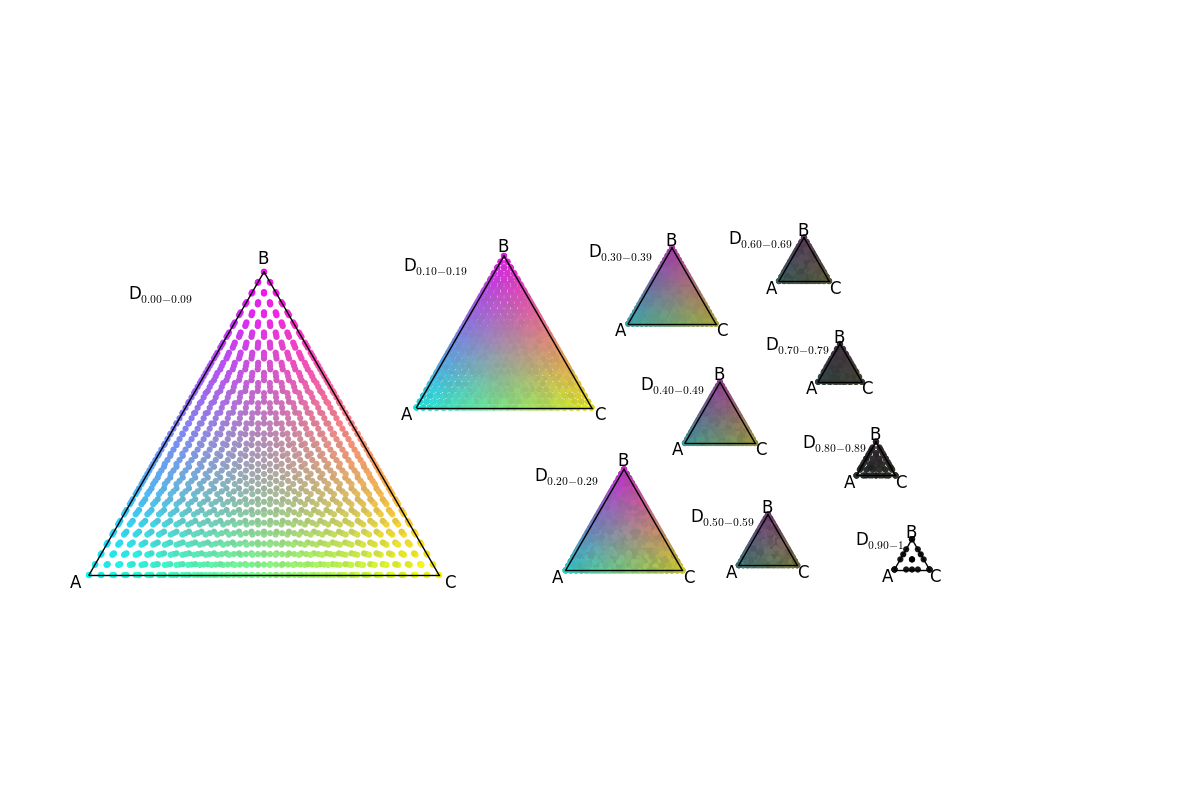
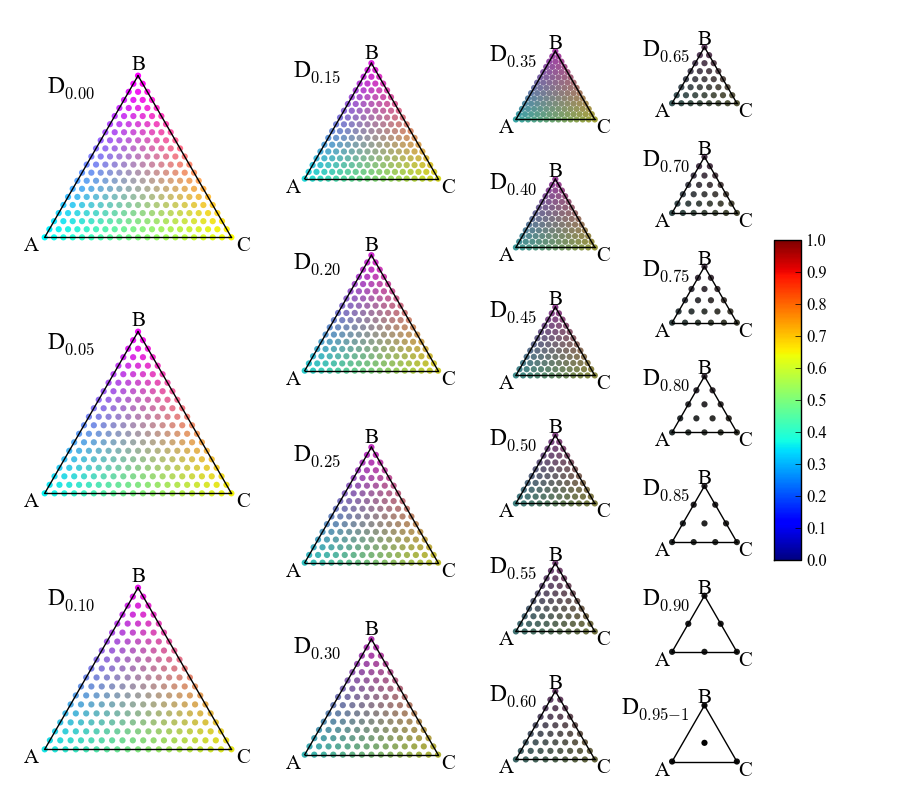
added tern comp slice plots for 5 and 20 slices

diff --git a/quaternary_FOM_stackedtern10.py b/quaternary_FOM_stackedtern10.py
@@ -1,0 +1,87 @@
+import matplotlib.cm as cm
+import numpy
+import pylab
+import h5py, operator, copy, os
+
+
+#pylab.rc('font',**{'family':'serif''serif':['Times New Roman']})
+#pylab.rcParams['font.family']='serif'
+#pylab.rcParams['font.serif']='Times New Roman'
+pylab.rc('font', family='serif', serif='Times New Roman')
+#os.chdir('C:/Users/Gregoire/Documents/PythonCode/ternaryplot')
+from myternaryutility import TernaryPlot
+from myquaternaryutility import QuaternaryPlot
+
+
+def make10ternaxes(ellabels=['A', 'B', 'C', 'D'], fig=None, fontsize=17):
+    if fig is None:
+        fig=pylab.figure(figsize=(12, 8))
+        
+    ax_xc=[]
+    ax_yc=[]
+    xcdel=[.18, .19, .065, .1, .04, .05, .055, .03, .02, .02]
+    ax_yc=[.49, .6, .38, .64, .48, .34, .66, .53, .42, .32]
+    for i in range(10):
+        if i==0:
+            ax_xc+=[xcdel[i]]
+        else:
+            ax_xc+=[ax_xc[-1]+xcdel[i]]
+        #ax_yc+=[.5+((i%2)*2.-1.)*((i>0)*.1+.072*i/10)]
+
+    shape1=numpy.array([.35, 1.])
+    scales=[.82, 0.51, 0.39, 0.3, 0.22, 0.2, 0.17, 0.14, 0.11, 0.06]
+    axl=[]
+    for sc, xc, yc in zip(scales, ax_xc, ax_yc):
+        w, l=shape1*sc
+        axl+=[fig.add_axes([xc-w/2, yc-l/2, w, l])]
+
+
+    stpl=[]
+    xpos=[.27]*10
+    xpos[0:3]=[.38, .36, .33]
+    xpos[-1]=.18
+    for count, (ax, xp) in enumerate(zip(axl, xpos)):
+        stp=TernaryPlot(ax, ellabels=ellabels[:3], offset=.03)
+        if not fontsize is None:
+            stp.label(fontsize=fontsize)#,fontdict={'fontname':'Times New Roman'})
+        stpl+=[stp]
+        
+        if not fontsize is None:
+            if count<9:
+                stp.ax.text(xp, .8, '%s$_{%.2f-%.2f}$' %(ellabels[3], (count*.1), ((count+1)*.1)-.01), ha='right', va='center', fontsize=fontsize)
+            else:
+                stp.ax.text(xp, .8, '%s$_{%.2f-%d}$' %(ellabels[3], (count*.1), 1), ha='right', va='center', fontsize=fontsize)
+    return axl, stpl
+
+
+
+def scatter_10axes(comps, fom, stpl, s=18, cb=False, cbrect=(.85, .3, .04, .4), cblabel='', **kwargs):# for colorbar must pass kwargs norm and cmap and optionally cblabel
+    abc=comps[:, :3]
+    abc[abc.sum(axis=1)==0.]=numpy.array([1., 1., 1.])/3.
+    abc=numpy.array([c/c.sum() for c in abc])
+    d=comps[:, 3]
+    d30=numpy.round(d*30.)
+    dlims=numpy.array([0., 1., 2., 3.])
+    marks=[('o', 1., 1.), ('D', .9, .7),('s', .8, .5)]
+    sl=s*numpy.array([2.3, 1., .55, .4, .4, .45, .4, .5, .8, 1., 1.5])
+    scplots=[]
+    for i, (stp, sv) in enumerate(zip(stpl, sl)):
+        dl=dlims+(i*3.)
+        if i==9:
+            dl[-1]+=.01
+        for a, b, (m, sf, al) in zip(dl, dl[1:], marks):
+            inds=numpy.where((d30>=a) & (d30<b))[0]
+            #print a, b, len(inds)
+            if len(inds)>0:
+                scplots+=[stp.scatter(abc[inds], c=fom[inds], marker=m, s=sv*sf, alpha=al, **kwargs)]
+    if cb:
+        cbax=stp.ax.figure.add_axes(cbrect)
+        if 'extend' in kwargs.keys():
+            sm=cm.ScalarMappable(norm=kwargs['norm'], cmap=kwargs['cmap'], extend=kwargs['extend'])
+        else:
+            sm=cm.ScalarMappable(norm=kwargs['norm'], cmap=kwargs['cmap'])
+        sm.set_array(fom)
+        cb=stp.ax.figure.colorbar(sm, cax=cbax)
+        cb.set_label(cblabel, fontsize=18)
+
+

diff --git a/quaternary_FOM_stackedtern5.py b/quaternary_FOM_stackedtern5.py
@@ -1,0 +1,86 @@
+import matplotlib.cm as cm
+import numpy
+import pylab
+import h5py, operator, copy, os
+
+
+#pylab.rc('font',**{'family':'serif''serif':['Times New Roman']})
+#pylab.rcParams['font.family']='serif'
+#pylab.rcParams['font.serif']='Times New Roman'
+pylab.rc('font', family='serif', serif='Times New Roman')
+#os.chdir('C:/Users/Gregoire/Documents/PythonCode/ternaryplot')
+from myternaryutility import TernaryPlot
+from myquaternaryutility import QuaternaryPlot
+
+
+def make5ternaxes(ellabels=['A', 'B', 'C', 'D'], fig=None):
+    if fig is None:
+        fig=pylab.figure(figsize=(8, 6))
+        
+    ax_xc=[]
+    ax_yc=[]
+    xcdel=[.22, .23, .13, .09, .06]
+    ax_yc=[.5, .58, .36, .58, .42]
+    for i in range(5):
+        if i==0:
+            ax_xc+=[xcdel[i]]
+        else:
+            ax_xc+=[ax_xc[-1]+xcdel[i]]
+        #ax_yc+=[.5+((i%2)*2.-1.)*((i>0)*.1+.072*i/10)]
+
+    shape1=numpy.array([.35, 1.])
+
+    axl=[]
+    for i, xc, yc in zip(range(1, 11), ax_xc, ax_yc):
+        w, l=shape1/i
+        axl+=[fig.add_axes([xc-w/2, yc-l/2, w, l])]
+
+
+    stpl=[]
+    xpos=[.27]*10
+    xpos[0:3]=[.35, .29, .28]
+    xpos[-1]=.26
+    for count, (ax, xp) in enumerate(zip(axl, xpos)):
+        stp=TernaryPlot(ax, ellabels=ellabels[:3], offset=.03)
+        stp.label(fontsize=17)#,fontdict={'fontname':'Times New Roman'})
+        stpl+=[stp]
+        
+        
+        if count<4:
+            stp.ax.text(xp, .8, '%s$_{%.2f-%.2f}$' %(ellabels[3], (count*.2), ((count+1)*.2)-.01), ha='right', va='center', fontsize=17)
+        else:
+            stp.ax.text(xp, .8, '%s$_{%.2f-%d}$' %(ellabels[3], (count*.2), 1), ha='right', va='center', fontsize=17)
+    return axl, stpl
+
+
+
+def scatter_5axes(comps, fom, stpl, s=18, cb=False, cbrect=(.85, .3, .04, .4), cblabel='', **kwargs):# for colorbar must pass kwargs norm and cmap and optionally cblabel
+    abc=comps[:, :3]
+    abc[abc.sum(axis=1)==0.]=numpy.array([1., 1., 1.])/3.
+    abc=numpy.array([c/c.sum() for c in abc])
+    d=comps[:, 3]
+    d30=numpy.round(d*30.)
+    dlims=numpy.array([0., 1., 2., 3., 4., 6.])
+    marks=[('o', 1., 1.), ('o', 1., .8), ('D', .9, .7), ('D', .9, .6),('s', .8, .5),('s', .8, .4)]
+    sl=s*numpy.array([2.3, 1.5, .8, .7, .6])
+    scplots=[]
+    for i, (stp, sv) in enumerate(zip(stpl, sl)):
+        dl=dlims+(i*6.)
+        if i==4:
+            dl[-1]+=1.
+        for a, b, (m, sf, al) in zip(dl, dl[1:], marks):
+            inds=numpy.where((d30>=a) & (d30<b))[0]
+            #print a, b, len(inds)
+            if len(inds)>0:
+                scplots+=[stp.scatter(abc[inds], c=fom[inds], marker=m, s=sv*sf, alpha=al, **kwargs)]
+    if cb:
+        cbax=stp.ax.figure.add_axes(cbrect)
+        if 'extend' in kwargs.keys():
+            sm=cm.ScalarMappable(norm=kwargs['norm'], cmap=kwargs['cmap'], extend=kwargs['extend'])
+        else:
+            sm=cm.ScalarMappable(norm=kwargs['norm'], cmap=kwargs['cmap'])
+        sm.set_array(fom)
+        cb=stp.ax.figure.colorbar(sm, cax=cbax)
+        cb.set_label(cblabel, fontsize=18)
+
+

diff --git a/quaternary_FOM_stackedtern20.py b/quaternary_FOM_stackedtern20.py
@@ -1,0 +1,86 @@
+import matplotlib.cm as cm
+import numpy
+import pylab
+import h5py, operator, copy, os
+
+
+#pylab.rc('font',**{'family':'serif''serif':['Times New Roman']})
+#pylab.rcParams['font.family']='serif'
+#pylab.rcParams['font.serif']='Times New Roman'
+pylab.rc('font', family='serif', serif='Times New Roman')
+#os.chdir('C:/Users/Gregoire/Documents/PythonCode/ternaryplot')
+from myternaryutility import TernaryPlot
+from myquaternaryutility import QuaternaryPlot
+
+
+def make20ternaxes(ellabels=['A', 'B', 'C', 'D'], fig=None):
+    if fig is None:
+        fig=pylab.figure(figsize=(9, 8))
+
+    axl=[]
+
+    delw=.02
+    delh=.04
+    yscalefct=[1.]*4#[.7, .7, .7, .7, .7, .7]
+    xscalefct=[1., .9, .67, .67, .67]
+    npercol=numpy.array([3,4,6,7])
+    colw=(1./npercol)
+    colw[0]*=.85
+    colw[1]*=.9
+    colw=(colw/colw.sum())*(.85-len(npercol)*delw)
+    #colw/=colw.sum()
+
+    plotcount=0
+    cumwidth=0
+    for nc, cw, xsf, ysf in zip(npercol, colw, xscalefct, yscalefct):
+        w=xsf*cw
+        h=ysf*((1.-delh*(nc+1))/nc)
+        cumwidth+=cw+delw
+        for ic in range(nc):
+            axl+=[fig.add_axes([cumwidth-cw/2.-w/2., 1.-(delh+ic*(h+delh))-h, w, h])]
+
+
+    stpl=[]
+    xpos=[.27]*20
+    #    xpos[0:3]=[.35, .29, .28]
+    #    xpos[-1]=.26
+    for count, (ax, xp) in enumerate(zip(axl, xpos)):
+        stp=TernaryPlot(ax, ellabels=ellabels[:3], offset=.03)
+        stp.label(fontsize=15)#,fontdict={'fontname':'Times New Roman'})
+        stpl+=[stp]
+        
+        
+        if count<19:
+            stp.ax.text(xp, .8, '%s$_{%.2f}$' %(ellabels[3], (count*.05)), ha='right', va='center', fontsize=17)
+        else:
+            stp.ax.text(xp, .8, '%s$_{%.2f-%d}$' %(ellabels[3], (count*.05), 1), ha='right', va='center', fontsize=17)
+    return axl, stpl
+
+
+
+def scatter_20axes(comps, fom, stpl, s=18, cb=False, cbrect=(.86, .3, .03, .4), cblabel='', **kwargs):
+    abc=comps[:, :3]
+    abc[abc.sum(axis=1)==0.]=numpy.array([1., 1., 1.])/3.
+    abc=numpy.array([c/c.sum() for c in abc])
+    d=comps[:, 3]
+    d20=numpy.round(d*20.)
+    d20[d20==20.]=19.
+    dlims=numpy.array([0., 1., 2., 3.])
+    marks=[('o', 1., 1.), ('D', .9, .7),('s', .8, .5)]
+    sl=s*numpy.array([2.3, 1., .58, .38, .38, .42, .38, .46, .8, 1., 1.5]+[1.5]*10)
+    for i, (stp, sv) in enumerate(zip(stpl, sl)):
+        inds=numpy.where((d20==i))[0]
+        #print a, b, len(inds)
+        if len(inds)>0:
+            stp.scatter(abc[inds], c=fom[inds], marker='o', s=20, **kwargs)
+    if cb:
+        cbax=stp.ax.figure.add_axes(cbrect)
+        if 'extend' in kwargs.keys():
+            sm=cm.ScalarMappable(norm=kwargs['norm'], cmap=kwargs['cmap'], extend=kwargs['extend'])
+        else:
+            sm=cm.ScalarMappable(norm=kwargs['norm'], cmap=kwargs['cmap'])
+        sm.set_array(fom)
+        cb=stp.ax.figure.colorbar(sm, cax=cbax)
+        cb.set_label(cblabel, fontsize=18)
+#make30ternaxes()
+#pylab.show()

diff --git a/myquaternaryutility.py b/myquaternaryutility.py
@@ -378,18 +378,18 @@ class QuaternaryPlot:
         else:
             return inds
             
-    def plotfomalonglineparameter(self, ax, lineparameter, fom, compend1=None, compend2=None, lineparticks=numpy.linspace(0, 1, 4), ticklabelkwargdict={}, **kwargs):
+    def plotfomalonglineparameter(self, ax, lineparameter, fom, compend1=None, compend2=None, lineparticks=numpy.linspace(0, 1, 4), labelfmtstr='%.3f', ticklabelkwargdict={}, **kwargs):
         sortinds=numpy.argsort(lineparameter)
         ax.plot(lineparameter[sortinds], fom[sortinds], **kwargs)
         if not lineparticks is None:
             tl=[]
             for i in lineparticks:
                 c=compend1+(compend2-compend1)*i
-                tl+=[self.singlelabeltext(c)]
+                tl+=[self.singlelabeltext(c, fmtstr=labelfmtstr)]
             ax.xaxis.set_ticks(lineparticks)
             ax.xaxis.set_ticklabels(tl, **ticklabelkwargdict)
     
-    def plotfominselectedplane(self, ax, xyparr, fom, xyp_verts=None, vertcomps_labels=None, vertlw=1., **kwargs):
+    def plotfominselectedplane(self, ax, xyparr, fom, xyp_verts=None, vertcomps_labels=None, vertlw=1., labelfmtstr='%.3f', **kwargs):
         ax.scatter(xyparr[:, 0], xyparr[:, 1], c=fom, **kwargs)
         xyp_verts=list(xyp_verts)
         if not vertlw is None:
@@ -399,7 +399,7 @@ class QuaternaryPlot:
             for xyp, c, ha, va in zip(xyp_verts, vertcomps_labels, ['right', 'left', 'center'], ['top', 'center', 'bottom']):
                 if c is None:
                     continue
-                ax.text(xyp[0], xyp[1], self.singlelabeltext(c), ha=ha, va=va)
+                ax.text(xyp[0], xyp[1], self.singlelabeltext(c, fmtstr=labelfmtstr), ha=ha, va=va, fontsize=16)
         ax.set_axis_off()
         ax.set_aspect('equal')
 

diff --git a/quaternary_FOM_stackedtern_demo10.py b/quaternary_FOM_stackedtern_demo10.py
@@ -2,13 +2,16 @@ import matplotlib.cm as cm
 import numpy
 import pylab
 import h5py, operator, copy, os
-
+import matplotlib.colors as colors
+import matplotlib.cm as cm
 from myternaryutility import TernaryPlot
 from myquaternaryutility import QuaternaryPlot
 
-from quaternary_FOM_stackedtern2 import *
+from quaternary_FOM_stackedtern10 import *
 
-axl, stpl=make10ternaxes()
+ellabels=['Aa', 'Bb', 'Cc', 'Dd']
+
+axl, stpl=make10ternaxes(ellabels=ellabels)
 
 gridi=30
 comps_10full=[(a*1./gridi, b*1./gridi, c*1./gridi, (gridi-a-b-c)*1./gridi) for a in numpy.arange(0,1+gridi) for b in numpy.arange(0,1+gridi-a) for c in numpy.arange(0,1+gridi-a-b)]
@@ -18,10 +21,12 @@ print len(comps_10full)
 comps_10full=numpy.array(comps_10full)
 
 pylab.figure()
-stpquat=QuaternaryPlot(111)
+stpquat=QuaternaryPlot(111, ellabels=ellabels)
 cols=stpquat.rgb_comp(comps_10full)
 stpquat.scatter(comps_10full, c=cols, s=20, edgecolors='none')
-scatter_10axes(comps_10full, cols, stpl, s=20, edgecolors='none', cmap=cm.jet, norm=None, cb=True)
+norm=colors.Normalize(vmin=0, vmax=1)
+cmap=cm.jet
+scatter_10axes(comps_10full, cols, stpl, s=20, edgecolors='none', cb=True, norm=norm, cmap=cmap)
 stpquat.label()
 
 pylab.savefig('stackedtern_quat.png')
@@ -29,3 +34,4 @@ pylab.figure(axl[0].figure.number)
 pylab.savefig('stackedtern.png')
 
 pylab.show()
+

diff --git a/quaternary_FOM_stackedtern_demo20.py b/quaternary_FOM_stackedtern_demo20.py
@@ -6,11 +6,12 @@ import h5py, operator, copy, os
 from myternaryutility import TernaryPlot
 from myquaternaryutility import QuaternaryPlot
 
-from quaternary_FOM_stackedtern2 import *
 
-axl, stpl=make10ternaxes()
+from quaternary_FOM_stackedtern20 import *
 
-gridi=30
+axl, stpl=make20ternaxes()
+
+gridi=20
 comps_10full=[(a*1./gridi, b*1./gridi, c*1./gridi, (gridi-a-b-c)*1./gridi) for a in numpy.arange(0,1+gridi) for b in numpy.arange(0,1+gridi-a) for c in numpy.arange(0,1+gridi-a-b)]
 comps_10full=list(set(comps_10full))
 print len(comps_10full)
@@ -21,7 +22,7 @@ pylab.figure()
 stpquat=QuaternaryPlot(111)
 cols=stpquat.rgb_comp(comps_10full)
 stpquat.scatter(comps_10full, c=cols, s=20, edgecolors='none')
-scatter_10axes(comps_10full, cols, stpl, s=20, edgecolors='none', cmap=cm.jet, norm=None, cb=True)
+scatter_20axes(comps_10full, cols, stpl, s=20, edgecolors='none', cmap=cm.jet, norm=None, cb=True)
 stpquat.label()
 
 pylab.savefig('stackedtern_quat.png')

diff --git a/quaternary_FOM_stackedtern_demo5.py b/quaternary_FOM_stackedtern_demo5.py
@@ -6,9 +6,10 @@ import h5py, operator, copy, os
 from myternaryutility import TernaryPlot
 from myquaternaryutility import QuaternaryPlot
 
-from quaternary_FOM_stackedtern2 import *
 
-axl, stpl=make10ternaxes()
+from quaternary_FOM_stackedtern5 import *
+
+axl, stpl=make5ternaxes()
 
 gridi=30
 comps_10full=[(a*1./gridi, b*1./gridi, c*1./gridi, (gridi-a-b-c)*1./gridi) for a in numpy.arange(0,1+gridi) for b in numpy.arange(0,1+gridi-a) for c in numpy.arange(0,1+gridi-a-b)]
@@ -21,7 +22,7 @@ pylab.figure()
 stpquat=QuaternaryPlot(111)
 cols=stpquat.rgb_comp(comps_10full)
 stpquat.scatter(comps_10full, c=cols, s=20, edgecolors='none')
-scatter_10axes(comps_10full, cols, stpl, s=20, edgecolors='none', cmap=cm.jet, norm=None, cb=True)
+scatter_5axes(comps_10full, cols, stpl, s=20, edgecolors='none', cmap=cm.jet, norm=None, cb=True)
 stpquat.label()
 
 pylab.savefig('stackedtern_quat.png')
